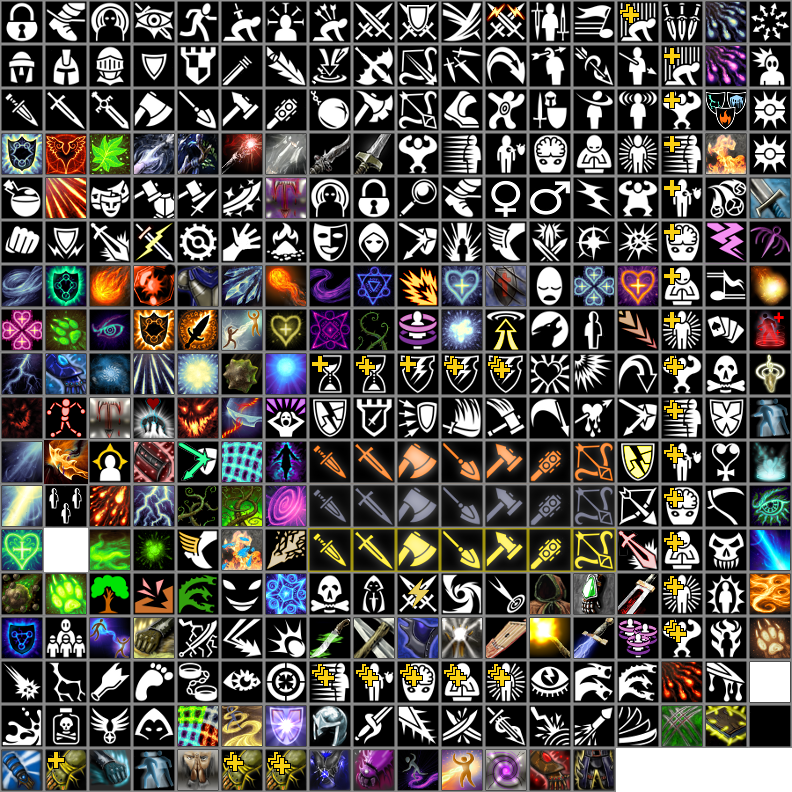
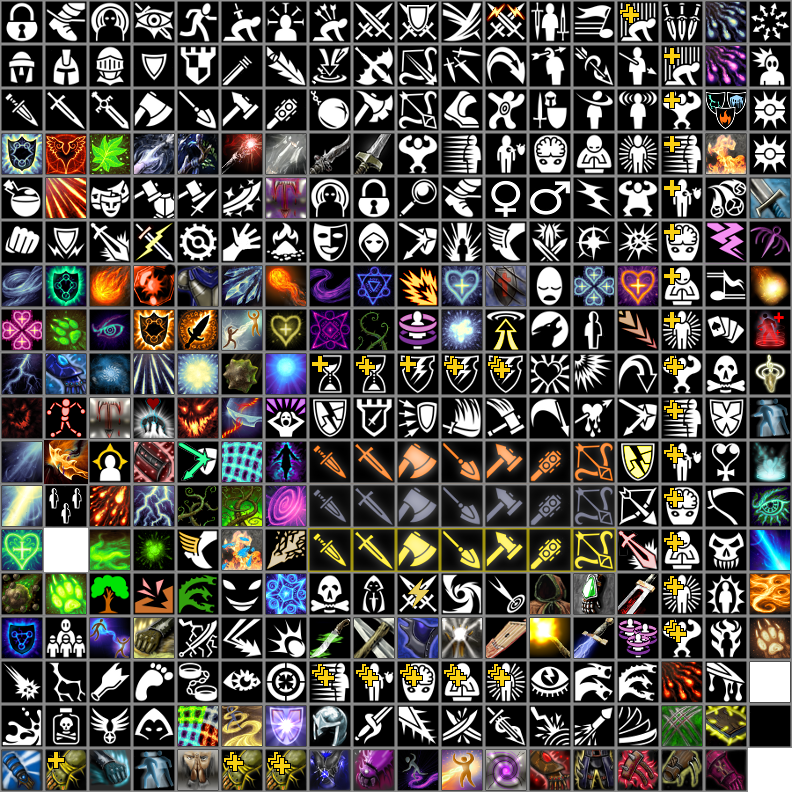
added unerring strike, furious blows, precise blows monk abilities

Changed region(s): [[0.7576, 0.9394, 0.9697, 1.0]]

diff --git a/core/scripts/abilities/furiousBlows.js b/core/scripts/abilities/furiousBlows.js
@@ -1,0 +1,19 @@
+function onActivate(game, slot) {
+	var effect = slot.createEffect();
+	effect.addPositiveIcon("items/enchant_damage_small");
+	effect.setTitle(slot.getAbility().getName());
+	
+	var parent = slot.getParent();
+	
+	effect.getBonuses().addBaseWeaponBonus("Unarmed", "Damage", 3 * parent.roles.getLevel("Monk") + 3 * (parent.stats.getWis() - 10));
+	effect.getBonuses().addBaseWeaponPenalty("Unarmed", "CriticalChance", -4);
+	effect.getBonuses().addBaseWeaponPenalty("Unarmed", "Attack", -20);
+	
+	effect.setRemoveOnDeactivate(true);
+	slot.getParent().applyEffect(effect);
+	slot.activate();
+}
+
+function onDeactivate(game, slot) {
+	slot.deactivate();
+}

diff --git a/core/scripts/abilities/preciseBlows.js b/core/scripts/abilities/preciseBlows.js
@@ -1,0 +1,18 @@
+function onActivate(game, slot) {
+	var effect = slot.createEffect();
+	effect.addPositiveIcon("items/enchant_attack_small");
+	effect.setTitle(slot.getAbility().getName());
+	
+	var parent = slot.getParent();
+	
+	effect.getBonuses().addBaseWeaponBonus("Unarmed", "CriticalChance", parent.roles.getLevel("Monk") + (parent.stats.getWis() - 10));
+	effect.getBonuses().addBaseWeaponPenalty("Unarmed", "Damage", -20);
+	
+	effect.setRemoveOnDeactivate(true);
+	slot.getParent().applyEffect(effect);
+	slot.activate();
+}
+
+function onDeactivate(game, slot) {
+	slot.deactivate();
+}

diff --git a/core/scripts/abilities/bodyMastery.js b/core/scripts/abilities/bodyMastery.js
@@ -19,6 +19,7 @@ function onActivate(game, slot) {
 	
 	if (parent.abilities.has("ChiMastery")) {
 		effect.getBonuses().addBonus('SpellResistance', parent.roles.getLevel("Monk") * 4);
+		effect.addPositiveIcon("items/enchant_spellResistance_small");
 	}
 	
 	var g1 = game.getBaseParticleGenerator("sparkle");

diff --git a/src/net/sf/hale/rules/Attack.java b/src/net/sf/hale/rules/Attack.java
@@ -246,6 +246,8 @@ public class Attack {
 		attackRoll = Game.dice.d100();
 		damageRoll = Game.dice.rand(weapon.getTemplate().getMinDamage(), weapon.getTemplate().getMaxDamage());
 
+		System.out.println("Rolled " + damageRoll + " between " + weapon.getTemplate().getMinDamage() + " to " + weapon.getTemplate().getMaxDamage());
+		
 		damageBonus += ((float)attacker.stats.get(Stat.LevelDamageBonus)) / 100.0f;
 		damageBonus += (float)(weapon.getQualityDamageBonus() + weapon.bonuses.get(Bonus.Type.WeaponDamage)) / 100.0f;
 		damageBonus += (float)(quiverDamageBonus) / 100.0f;
@@ -256,8 +258,12 @@ public class Attack {
 		damageBonus += (float)attacker.stats.get(weapon.getTemplate().getDamageType().getName(), Bonus.Type.DamageForWeaponType) / 100.0f;
 		attackBonus += attacker.stats.get(weapon.getTemplate().getDamageType().getName(), Bonus.Type.AttackForWeaponType); 
 		
+		System.out.println("Got damage bonus " + damageBonus);
+		
 		totalAttack = attackRoll + attackBonus;
 		totalDamage = (int)Math.round( ((float)damageRoll * damageBonus) );
+		
+		System.out.println("Got total damage " + totalDamage);
 		
 		damageMin = (int)Math.round( ((float)weapon.getTemplate().getMinDamage() * damageBonus) );
 		damageMax = (int)Math.round( ((float)weapon.getTemplate().getMaxDamage() * damageBonus) );
